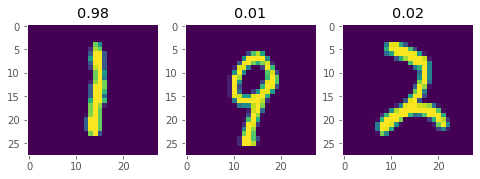
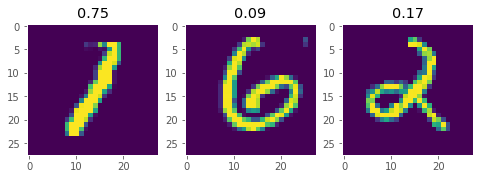
Share weights between dense layers to make the model permutation invariant (#724)
* Use shared dense layers instead of individual layers for each instance in the back.

The current implementation uses a separate set of dense layers (dense_1 and dense_2) for each instance in the bag. To make the model permutation invariant, each instance in the bag should be treated identically. This can be achieved if the dense layers share the weight between instances.

* Apply reviewer's suggestions

* Add auto generated file to the commit

Adding generated by running
```
python3 autogen.py add_example vision/attention_mil_classification.py
```

diff --git a/examples/vision/attention_mil_classification.py b/examples/vision/attention_mil_classification.py
@@ -2,7 +2,7 @@
 Title: Classification using Attention-based Deep Multiple Instance Learning (MIL).
 Author: [Mohamad Jaber](https://www.linkedin.com/in/mohamadjaber1/)
 Date created: 2021/08/16
-Last modified: 2021/11/21
+Last modified: 2021/11/25
 Description: MIL approach to classify bags of instances and get their individual instance score.
 """
 """
@@ -42,7 +42,7 @@ the attention scores. The layer is designed as permutation-invariant.
 
 ### References
 
-- [Attention-based Deep Multiple Instance Learning](https://arxiv.org/pdf/1802.04712.pdf).
+- [Attention-based Deep Multiple Instance Learning](https://arxiv.org/abs/1802.04712).
 - Some of the attention operator code implementation was inspired from https://github.com/utayao/Atten_Deep_MIL.
 - Imbalanced data [tutorial](https://www.tensorflow.org/tutorials/structured_data/imbalanced_data)
 by TensorFlow.
@@ -320,6 +320,7 @@ def plot(data, labels, bag_class, predictions=None, attention_weights=None):
         print(f"There is no class {bag_class}")
         return
 
+    print(f"The bag class label is {bag_class}")
     for i in range(PLOT_SIZE):
         figure = plt.figure(figsize=(8, 8))
         print(f"Bag number: {labels[i]}")
@@ -349,11 +350,13 @@ def create_model(instance_shape):
 
     # Extract features from inputs.
     inputs, embeddings = [], []
+    shared_dense_layer_1 = layers.Dense(128, activation="relu")
+    shared_dense_layer_2 = layers.Dense(64, activation="relu")
     for _ in range(BAG_SIZE):
         inp = layers.Input(instance_shape)
         flatten = layers.Flatten()(inp)
-        dense_1 = layers.Dense(128, activation="relu")(flatten)
-        dense_2 = layers.Dense(64, activation="relu")(dense_1)
+        dense_1 = shared_dense_layer_1(flatten)
+        dense_2 = shared_dense_layer_2(dense_1)
         inputs.append(inp)
         embeddings.append(dense_2)
 

diff --git a/examples/vision/md/attention_mil_classification.md b/examples/vision/md/attention_mil_classification.md
@@ -2,7 +2,7 @@
 
 **Author:** [Mohamad Jaber](https://www.linkedin.com/in/mohamadjaber1/)<br>
 **Date created:** 2021/08/16<br>
-**Last modified:** 2021/11/21<br>
+**Last modified:** 2021/11/25<br>
 **Description:** MIL approach to classify bags of instances and get their individual instance score.
 
 
@@ -47,7 +47,7 @@ the attention scores. The layer is designed as permutation-invariant.
 
 ### References
 
-- [Attention-based Deep Multiple Instance Learning](https://arxiv.org/pdf/1802.04712.pdf).
+- [Attention-based Deep Multiple Instance Learning](https://arxiv.org/abs/1802.04712).
 - Some of the attention operator code implementation was inspired from https://github.com/utayao/Atten_Deep_MIL.
 - Imbalanced data [tutorial](https://www.tensorflow.org/tutorials/structured_data/imbalanced_data)
 by TensorFlow.
@@ -157,10 +157,10 @@ val_data, val_labels = create_bags(
 
 <div class="k-default-codeblock">
 ```
-Positive bags: 307
-Negative bags: 693
-Positive bags: 87
-Negative bags: 213
+Positive bags: 301
+Negative bags: 699
+Positive bags: 89
+Negative bags: 211
 
 ```
 </div>
@@ -341,6 +341,7 @@ def plot(data, labels, bag_class, predictions=None, attention_weights=None):
         print(f"There is no class {bag_class}")
         return
 
+    print(f"The bag class label is {bag_class}")
     for i in range(PLOT_SIZE):
         figure = plt.figure(figsize=(8, 8))
         print(f"Bag number: {labels[i]}")
@@ -361,7 +362,8 @@ plot(val_data, val_labels, "negative")
 
 <div class="k-default-codeblock">
 ```
-Bag number: 1
+The bag class label is positive
+Bag number: 0
 
 ```
 </div>
@@ -372,7 +374,7 @@ Bag number: 1
 
 <div class="k-default-codeblock">
 ```
-Bag number: 2
+Bag number: 4
 
 ```
 </div>
@@ -383,7 +385,7 @@ Bag number: 2
 
 <div class="k-default-codeblock">
 ```
-Bag number: 3
+Bag number: 6
 
 ```
 </div>
@@ -394,7 +396,8 @@ Bag number: 3
 
 <div class="k-default-codeblock">
 ```
-Bag number: 0
+The bag class label is negative
+Bag number: 1
 
 ```
 </div>
@@ -405,7 +408,7 @@ Bag number: 0
 
 <div class="k-default-codeblock">
 ```
-Bag number: 8
+Bag number: 2
 
 ```
 </div>
@@ -416,7 +419,7 @@ Bag number: 8
 
 <div class="k-default-codeblock">
 ```
-Bag number: 9
+Bag number: 3
 
 ```
 </div>
@@ -438,11 +441,13 @@ def create_model(instance_shape):
 
     # Extract features from inputs.
     inputs, embeddings = [], []
+    shared_dense_layer_1 = layers.Dense(128, activation="relu")
+    shared_dense_layer_2 = layers.Dense(64, activation="relu")
     for _ in range(BAG_SIZE):
         inp = layers.Input(instance_shape)
         flatten = layers.Flatten()(inp)
-        dense_1 = layers.Dense(128, activation="relu")(flatten)
-        dense_2 = layers.Dense(64, activation="relu")(dense_1)
+        dense_1 = shared_dense_layer_1(flatten)
+        dense_2 = shared_dense_layer_2(dense_1)
         inputs.append(inp)
         embeddings.append(dense_2)
 
@@ -572,66 +577,60 @@ trained_models = [
 
 <div class="k-default-codeblock">
 ```
+2021-11-29 11:03:40.528531: I tensorflow/core/platform/cpu_feature_guard.cc:151] This TensorFlow binary is optimized with oneAPI Deep Neural Network Library (oneDNN) to use the following CPU instructions in performance-critical operations:  AVX2 FMA
+To enable them in other operations, rebuild TensorFlow with the appropriate compiler flags.
+
 Model: "model"
 __________________________________________________________________________________________________
-Layer (type)                    Output Shape         Param #     Connected to                     
+ Layer (type)                   Output Shape         Param #     Connected to                     
 ==================================================================================================
-input_1 (InputLayer)            [(None, 28, 28)]     0                                            
-__________________________________________________________________________________________________
-input_2 (InputLayer)            [(None, 28, 28)]     0                                            
-__________________________________________________________________________________________________
-input_3 (InputLayer)            [(None, 28, 28)]     0                                            
-__________________________________________________________________________________________________
-flatten (Flatten)               (None, 784)          0           input_1[0][0]                    
-__________________________________________________________________________________________________
-flatten_1 (Flatten)             (None, 784)          0           input_2[0][0]                    
-__________________________________________________________________________________________________
-flatten_2 (Flatten)             (None, 784)          0           input_3[0][0]                    
-__________________________________________________________________________________________________
-dense (Dense)                   (None, 128)          100480      flatten[0][0]                    
-__________________________________________________________________________________________________
-dense_2 (Dense)                 (None, 128)          100480      flatten_1[0][0]                  
-__________________________________________________________________________________________________
-dense_4 (Dense)                 (None, 128)          100480      flatten_2[0][0]                  
-__________________________________________________________________________________________________
-dense_1 (Dense)                 (None, 64)           8256        dense[0][0]                      
-__________________________________________________________________________________________________
-dense_3 (Dense)                 (None, 64)           8256        dense_2[0][0]                    
-__________________________________________________________________________________________________
-dense_5 (Dense)                 (None, 64)           8256        dense_4[0][0]                    
-__________________________________________________________________________________________________
-alpha (MILAttentionLayer)       [(None, 1), (None, 1 33024       dense_1[0][0]                    
-                                                                 dense_3[0][0]                    
-                                                                 dense_5[0][0]                    
-__________________________________________________________________________________________________
-multiply (Multiply)             (None, 64)           0           alpha[0][0]                      
-                                                                 dense_1[0][0]                    
-__________________________________________________________________________________________________
-multiply_1 (Multiply)           (None, 64)           0           alpha[0][1]                      
-                                                                 dense_3[0][0]                    
-__________________________________________________________________________________________________
-multiply_2 (Multiply)           (None, 64)           0           alpha[0][2]                      
-                                                                 dense_5[0][0]                    
-__________________________________________________________________________________________________
-concatenate (Concatenate)       (None, 192)          0           multiply[0][0]                   
-                                                                 multiply_1[0][0]                 
-                                                                 multiply_2[0][0]                 
-__________________________________________________________________________________________________
-dense_6 (Dense)                 (None, 2)            386         concatenate[0][0]                
+ input_1 (InputLayer)           [(None, 28, 28)]     0           []                               
+                                                                                                  
+ input_2 (InputLayer)           [(None, 28, 28)]     0           []                               
+                                                                                                  
+ input_3 (InputLayer)           [(None, 28, 28)]     0           []                               
+                                                                                                  
+ flatten (Flatten)              (None, 784)          0           ['input_1[0][0]']                
+                                                                                                  
+ flatten_1 (Flatten)            (None, 784)          0           ['input_2[0][0]']                
+                                                                                                  
+ flatten_2 (Flatten)            (None, 784)          0           ['input_3[0][0]']                
+                                                                                                  
+ dense (Dense)                  (None, 128)          100480      ['flatten[0][0]',                
+                                                                  'flatten_1[0][0]',              
+                                                                  'flatten_2[0][0]']              
+                                                                                                  
+ dense_1 (Dense)                (None, 64)           8256        ['dense[0][0]',                  
+                                                                  'dense[1][0]',                  
+                                                                  'dense[2][0]']                  
+                                                                                                  
+ alpha (MILAttentionLayer)      [(None, 1),          33024       ['dense_1[0][0]',                
+                                 (None, 1),                       'dense_1[1][0]',                
+                                 (None, 1)]                       'dense_1[2][0]']                
+                                                                                                  
+ multiply (Multiply)            (None, 64)           0           ['alpha[0][0]',                  
+                                                                  'dense_1[0][0]']                
+                                                                                                  
+ multiply_1 (Multiply)          (None, 64)           0           ['alpha[0][1]',                  
+                                                                  'dense_1[1][0]']                
+                                                                                                  
+ multiply_2 (Multiply)          (None, 64)           0           ['alpha[0][2]',                  
+                                                                  'dense_1[2][0]']                
+                                                                                                  
+ concatenate (Concatenate)      (None, 192)          0           ['multiply[0][0]',               
+                                                                  'multiply_1[0][0]',             
+                                                                  'multiply_2[0][0]']             
+                                                                                                  
+ dense_2 (Dense)                (None, 2)            386         ['concatenate[0][0]']            
+                                                                                                  
 ==================================================================================================
-Total params: 359,618
-Trainable params: 359,618
+Total params: 142,146
+Trainable params: 142,146
 Non-trainable params: 0
 __________________________________________________________________________________________________
 None
 
-  0%|          | 0/1 [00:00<?, ?it/s]
-
-WARNING:tensorflow:From /home/mohamad/.local/lib/python3.8/site-packages/tensorflow/python/ops/array_ops.py:5043: calling gather (from tensorflow.python.ops.array_ops) with validate_indices is deprecated and will be removed in a future version.
-Instructions for updating:
-The `validate_indices` argument has no effect. Indices are always validated on CPU and never validated on GPU.
-
-100%|██████████| 1/1 [00:35<00:00, 35.90s/it]
+100%|█████████████████████████████████████████████████████████████████████████████████████████████████████████████████████████████████████████████████████████████████████████████████████████████████████████████████████████| 1/1 [00:23<00:00, 23.71s/it]
 
 ```
 </div>
@@ -708,8 +707,9 @@ plot(
 
 <div class="k-default-codeblock">
 ```
-The average loss and accuracy are 0.11 and 97.33 % resp.
-Bag number: 1
+The average loss and accuracy are 0.00 and 100.00 % resp.
+The bag class label is positive
+Bag number: 0
 
 ```
 </div>
@@ -720,7 +720,7 @@ Bag number: 1
 
 <div class="k-default-codeblock">
 ```
-Bag number: 2
+Bag number: 4
 
 ```
 </div>
@@ -731,7 +731,7 @@ Bag number: 2
 
 <div class="k-default-codeblock">
 ```
-Bag number: 3
+Bag number: 6
 
 ```
 </div>
@@ -742,7 +742,8 @@ Bag number: 3
 
 <div class="k-default-codeblock">
 ```
-Bag number: 0
+The bag class label is negative
+Bag number: 1
 
 ```
 </div>
@@ -753,7 +754,7 @@ Bag number: 0
 
 <div class="k-default-codeblock">
 ```
-Bag number: 8
+Bag number: 2
 
 ```
 </div>
@@ -764,7 +765,7 @@ Bag number: 8
 
 <div class="k-default-codeblock">
 ```
-Bag number: 9
+Bag number: 3
 
 ```
 </div>
